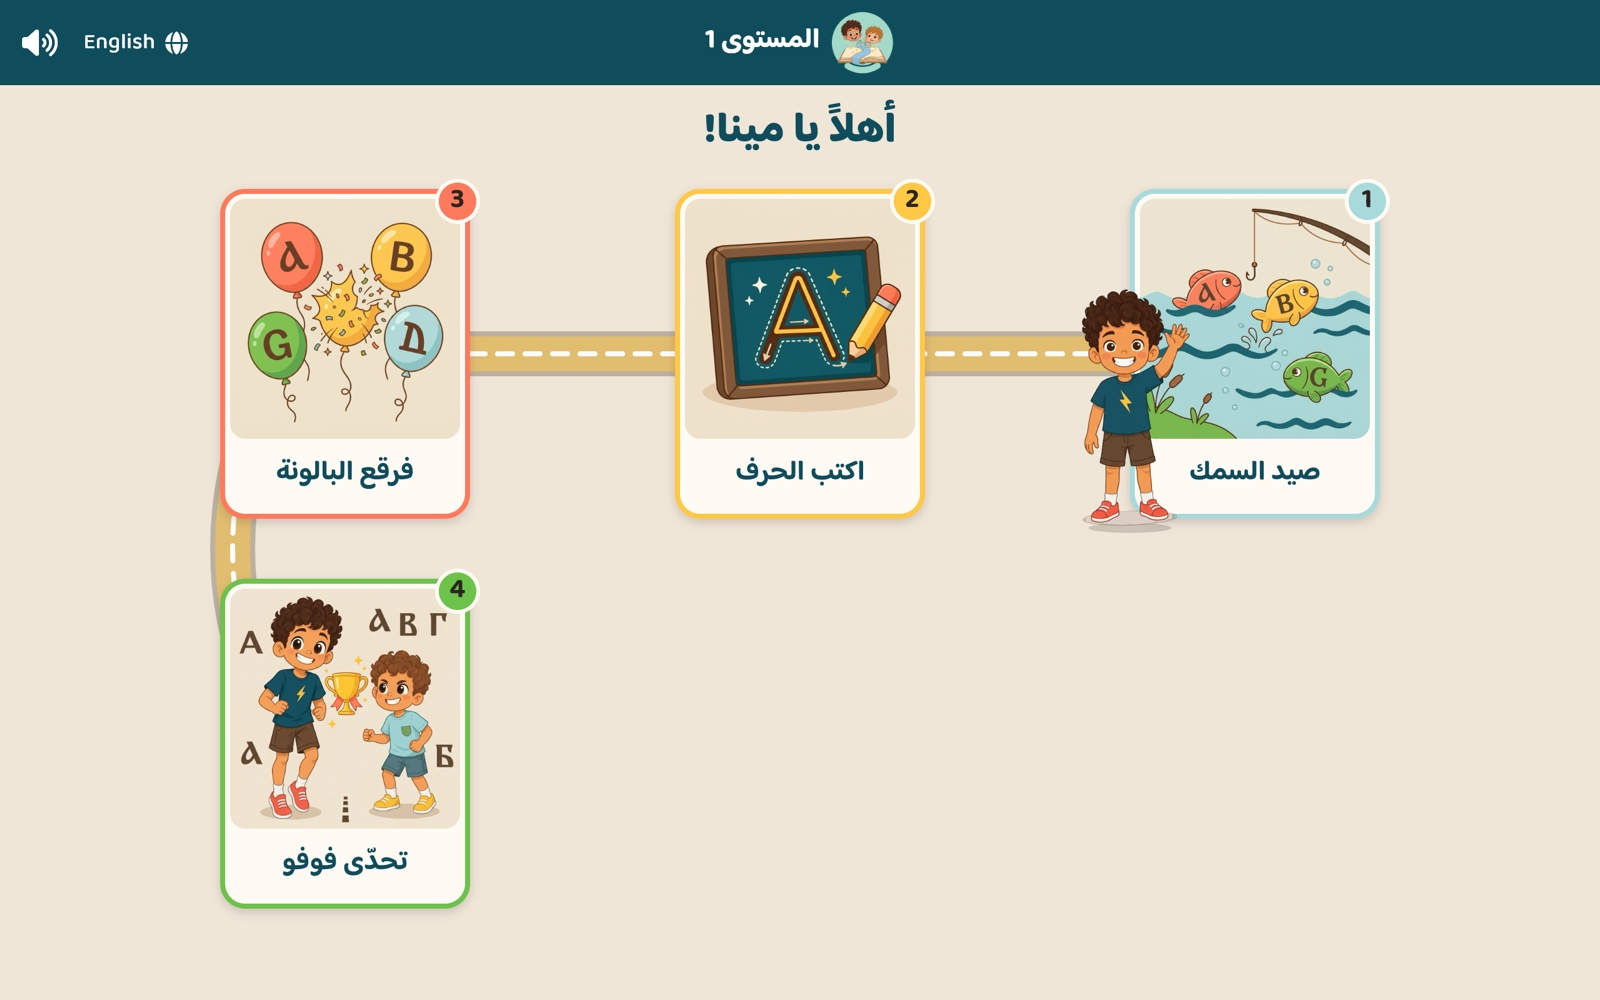
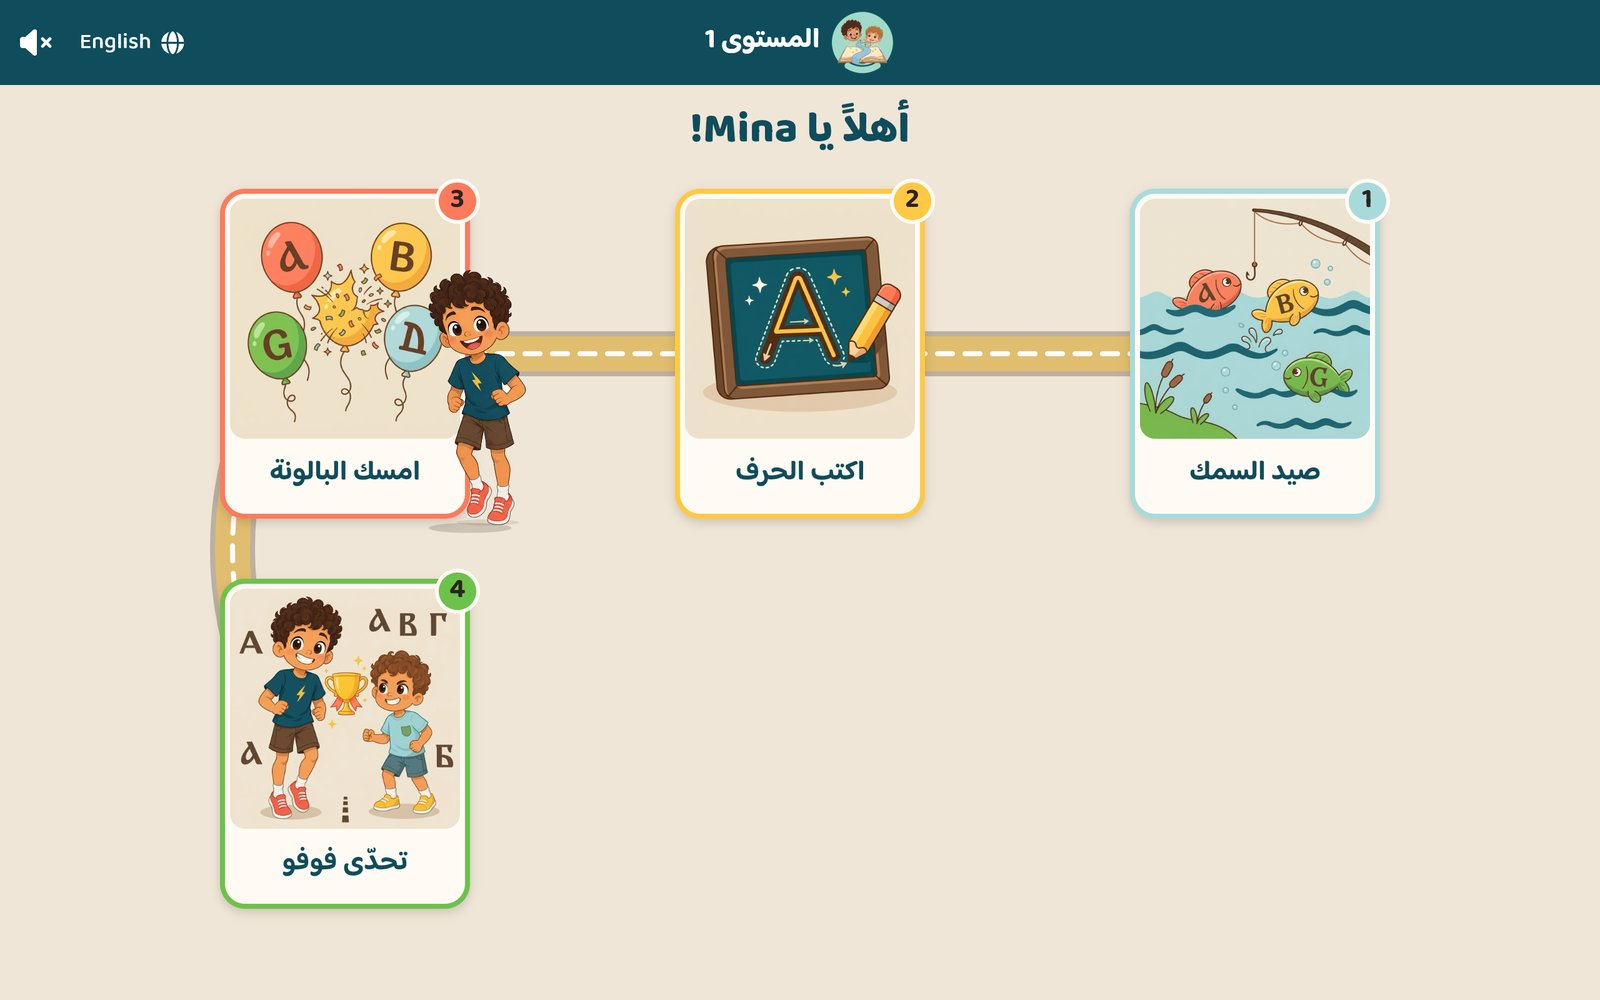
Load balloons art and character poses in parallel; add balloons screenshots
The village scene stayed empty for a few seconds while every image loaded
one after another. Screenshots: the balloons letter picker, the game in
Arabic and English, and the road with the renamed card.

diff --git a/app/lib/features/games/balloons/game/balloons_game.dart b/app/lib/features/games/balloons/game/balloons_game.dart
@@ -114,7 +114,12 @@ class BalloonsGame extends FlameGame {
 
   @override
   Future<void> onLoad() async {
-    final picture = await _tryLoad(config.background);
+    // Load everything at once; one by one the scene stays empty for seconds.
+    final loaded = await Future.wait([
+      _tryLoad(config.background),
+      for (final path in config.balloonImages) _tryLoad(path),
+    ]);
+    final picture = loaded.first;
     if (picture != null) {
       art = VillageArt(
         ui.Size(picture.width.toDouble(), picture.height.toDouble()),
@@ -122,10 +127,7 @@ class BalloonsGame extends FlameGame {
       );
       layout = _layoutFor(layout.size);
     }
-    for (final path in config.balloonImages) {
-      final img = await _tryLoad(path);
-      if (img != null) _sprites.add(img);
-    }
+    _sprites.addAll(loaded.skip(1).whereType<ui.Image>());
     _hero = CharacterComponent(
       character: hero,
       roster: roster,

diff --git a/app/lib/engines/characters/flame/character_component.dart b/app/lib/engines/characters/flame/character_component.dart
@@ -46,8 +46,12 @@ class CharacterComponent extends PositionComponent {
 
   @override
   Future<void> onLoad() async {
-    for (final pose in roster.posesOf(character)) {
-      _sprites[pose.action] = await _images.load(pose.asset);
+    final poses = roster.posesOf(character).toList();
+    final images = await Future.wait([
+      for (final pose in poses) _images.load(pose.asset),
+    ]);
+    for (final (i, pose) in poses.indexed) {
+      _sprites[pose.action] = images[i];
     }
     final idle = roster.pose(character, CharacterAction.idle)!;
     size = Vector2(idle.width * _k, idle.height * _k);

diff --git a/README.md b/README.md
@@ -40,6 +40,18 @@ Catch the fish that carry the letter you're looking for.
 
 ![Fishing game](screenshots/06-fishing.jpg)
 
+### Balloons: pick a letter
+
+![Balloons letter picker](screenshots/08-balloons-letters.jpg)
+
+### Catch the balloon in the village
+
+Tap a balloon with your letter: your buddy jumps for its string and hands it to his brother, who holds the bunch.
+
+![Balloons game](screenshots/09-balloons.jpg)
+
+![Balloons game in English](screenshots/10-balloons-english.jpg)
+
 ## For developers
 
 The Flutter app lives in [`app/`](app/). See [`app/README.md`](app/README.md) to run it.
